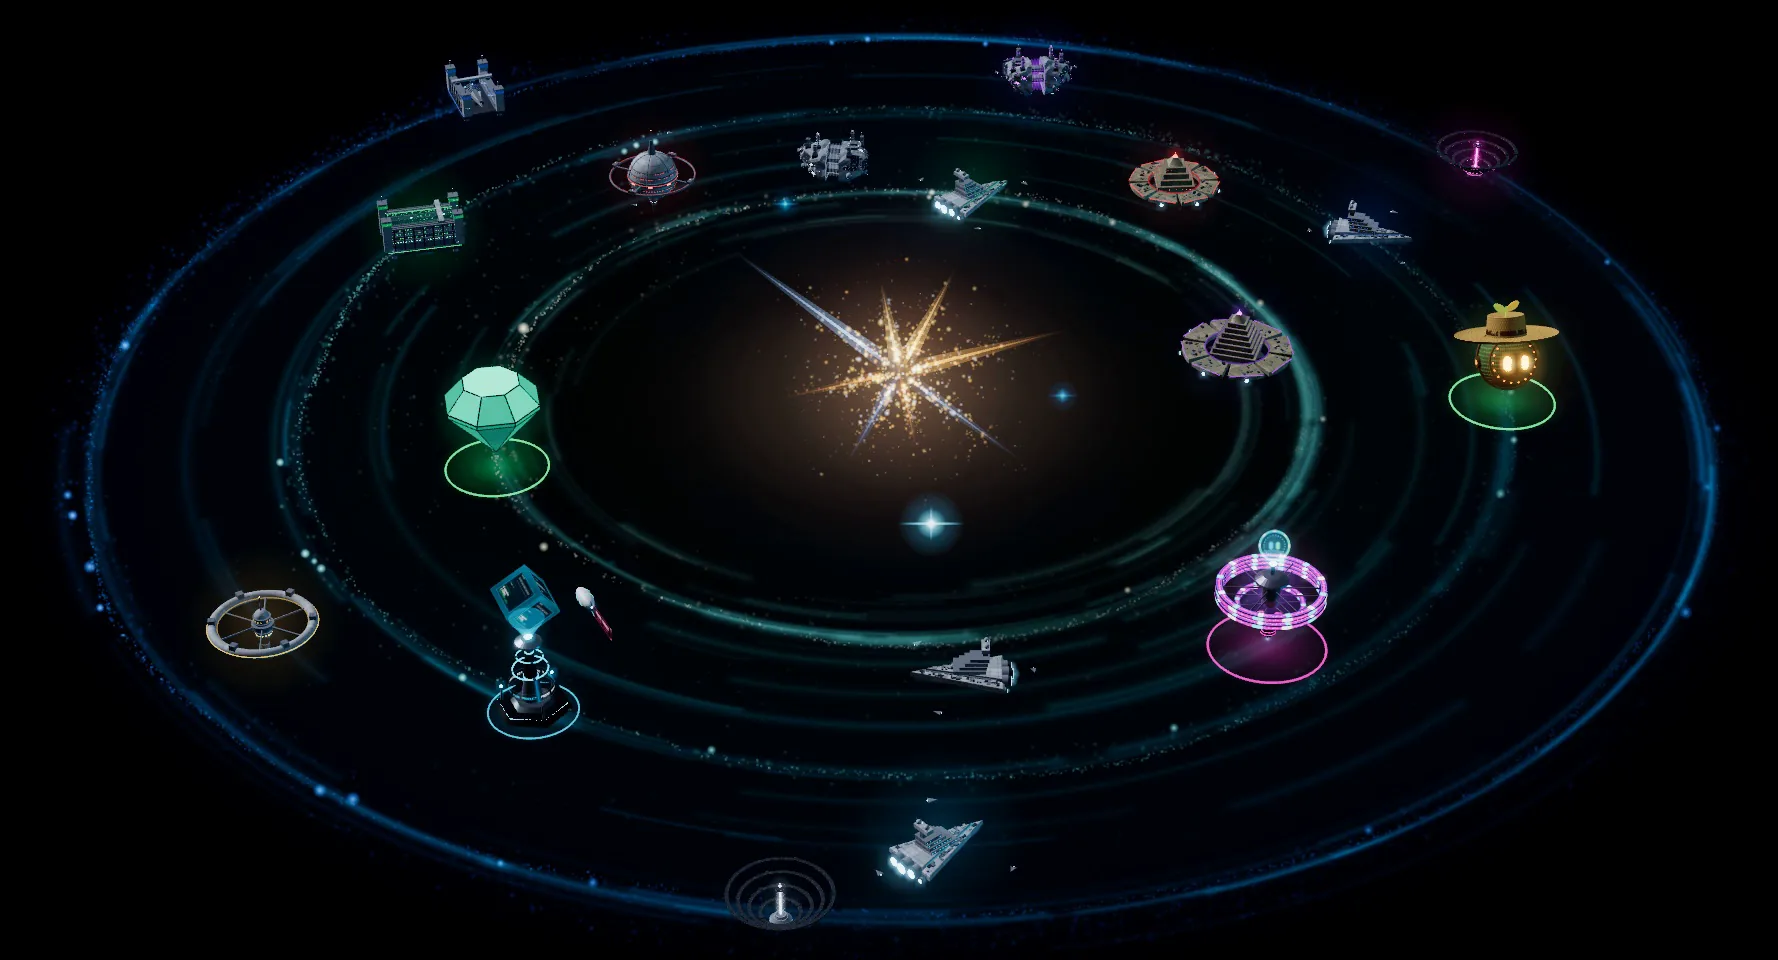
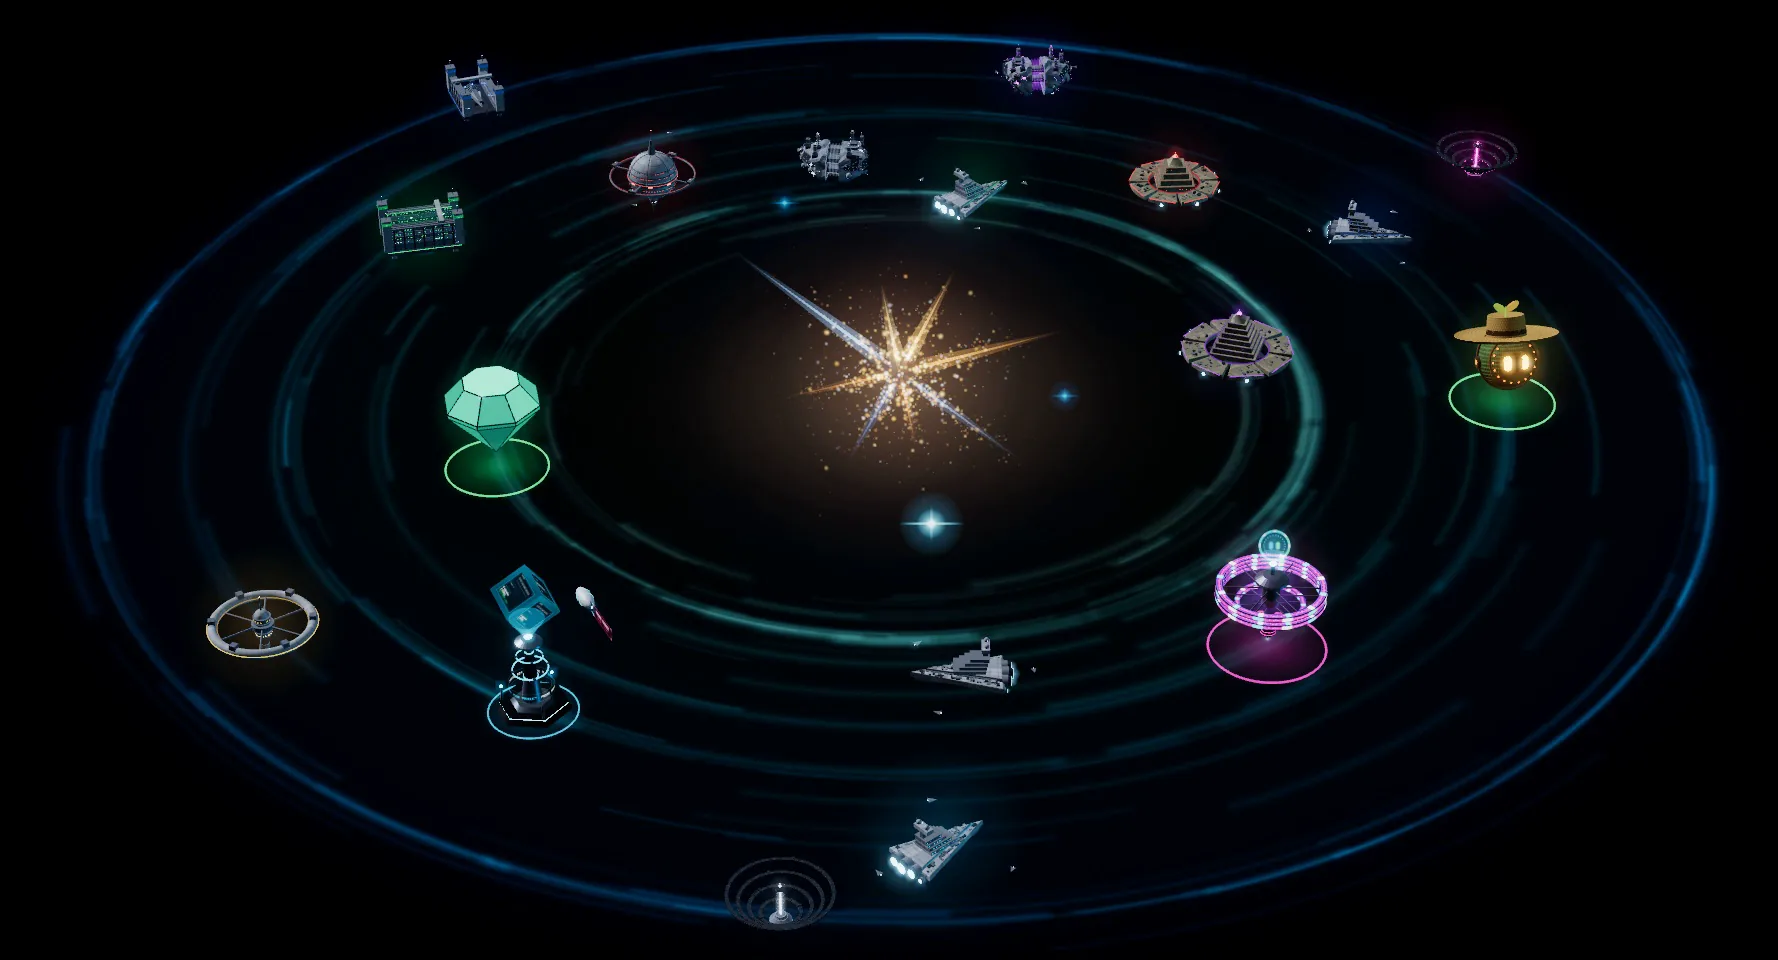
Cymetica Quest steps page: the Universe without its fine specks (the operator: "vis proc je to tak moc zrnite? bo se snazis moc detailu zobrazovat"). The grain was detail, not the codec: the clip is filmed with the lanes' dust off (CO.uv.dust, after the map's box is measured, so the sun and the YOUR
Effort: high

diff --git a/outbox/quest-steps/quest.css b/outbox/quest-steps/quest.css
@@ -621,6 +621,9 @@ h1 b { font-weight: 400; }
 .stage.uni .pic { width: 137%; margin-left: -28%; }
 .stage.uni .pic::before, .stage.duo .near::before { content: ''; position: absolute; z-index: -1; inset: -4% -2%; pointer-events: none;
   background: radial-gradient(50% 50% at 50% 50%, rgba(2, 4, 8, .62), rgba(2, 4, 8, .42) 55%, rgba(2, 4, 8, 0) 100%); }
+/* ("bo se snazis moc detailu zobrazovat"): the page's stars do not show through the map, only the nebula's colour (capture.py calm) */
+.stage.uni .pic::before { inset: -6% -5%; background: linear-gradient(rgba(5, 7, 12, .3), rgba(5, 7, 12, .3)), url(pics/space-calm.webp) 50% 50% / cover no-repeat, #05070c;
+  -webkit-mask-image: radial-gradient(50% 50% at 50% 50%, #000 74%, transparent 100%); mask-image: radial-gradient(50% 50% at 50% 50%, #000 74%, transparent 100%); }
 .stage.uni .sun { position: absolute; z-index: 2; left: 50.61%; top: 38.78%; width: 30.5%; transform: translate(-50%, -50%); pointer-events: none; }
 /* (sixteenth take: "nad nejakou lod dej tag YOUR COMPANY"): over your company's station, which the clip holds still
    (record.py UV_SPREAD prints where); the Universe's plate (.b3 above), green as its plate over your own land is */
@@ -692,6 +695,7 @@ h1 b { font-weight: 400; }
   background: linear-gradient(90deg, rgba(255, 255, 255, 0), rgba(255, 255, 255, .1), rgba(255, 255, 255, 0)); transition: left .85s var(--ease); }
 .door:hover::after { left: 125%; }
 .door.uv { --cr: 0, 207, 255; --c: var(--cyan); }
+.door.uv .art { background-image: url(pics/space-calm.webp); }
 .door:hover { transform: translateY(-8px); box-shadow: inset 0 1px 0 #ffffff, inset 0 0 0 1px rgba(var(--cr), .9), 0 0 95px rgba(var(--cr), .34), 0 40px 70px rgba(0, 0, 0, .58); }
 .door .art { position: relative; display: block; aspect-ratio: 16 / 9; overflow: hidden; background: url(pics/space.webp) 50% 50% / cover no-repeat, #05070c; }
 .door-tag { position: absolute; left: 22px; top: 20px; z-index: 4; display: inline-flex; align-items: center; gap: 8px; padding: 6px 13px; border-radius: 99px;

diff --git a/outbox/quest-steps/capture.py b/outbox/quest-steps/capture.py
@@ -187,6 +187,15 @@ def sky(_b):
     save(img, 'space.webp', quality=88)
 
 
+def calm(_b):
+    """the same sky without its stars, only the nebula's colour, behind the Universe ("bo se snazis moc detailu zobrazovat"):
+    every speck taken out (a minimum, then a maximum, over more than a star's width), then blurred"""
+    from PIL import ImageFilter
+    img = Image.open(HERE / 'pics' / 'space.webp').convert('RGB').resize((1920, 1080), Image.LANCZOS)
+    img = img.filter(ImageFilter.MinFilter(9)).filter(ImageFilter.MaxFilter(9)).filter(ImageFilter.GaussianBlur(14))
+    save(img, 'space-calm.webp', quality=92)
+
+
 def sun(b):
     """Cymetica's sun alone, from our Universe mock (its ball, glow and rays; no orbit, ring or station), on black: the
     page screens it over the sky. Prints how wide its bright ball is, so the page can size the companies by it."""
@@ -344,7 +353,7 @@ def apps(_b, n=13):
     print('apps: of', data['count'], 'built, in the ring:', json.dumps([[a['name'], a['path'].strip('/')] for a in picked]))
 
 
-SHOTS = {'sky': sky, 'sun': sun, 'stations': stations, 'builder': builder, 'promo': promo, 'apps': apps}
+SHOTS = {'sky': sky, 'calm': calm, 'sun': sun, 'stations': stations, 'builder': builder, 'promo': promo, 'apps': apps}
 
 
 def main(names):

diff --git a/outbox/quest-steps/record.py b/outbox/quest-steps/record.py
@@ -726,6 +726,9 @@ def universe(b, seconds=20, dsf=1.5):
     # ("to neni ono ten universe, on je takovy zrnity": it went through 10 Mbit/s at 1600 wide and was then stretched to his
     # 1791: filmed frame by frame on its clock, from where it stands, at the size it is drawn)
     page.evaluate("() => { const uv = CO.uv, t0 = uv.clock.getElapsedTime(); window.__T = 0; uv.clock.getElapsedTime = () => t0 + window.__T; uv.pace = () => true; }")
+    # ("vis proc je to tak moc zrnite? bo se snazis moc detailu zobrazovat"): the lanes' thousands of specks of dust off, after
+    # lit_box so the map keeps its box and the page its sun and tag; the lanes stay
+    page.evaluate("() => { CO.uv.dust.visible = false; }")
     stepped(page, sel, seconds, 'universe', box, bps='24M', crf='4')
     page.close()
     frame_poster('universe', 1.0)
